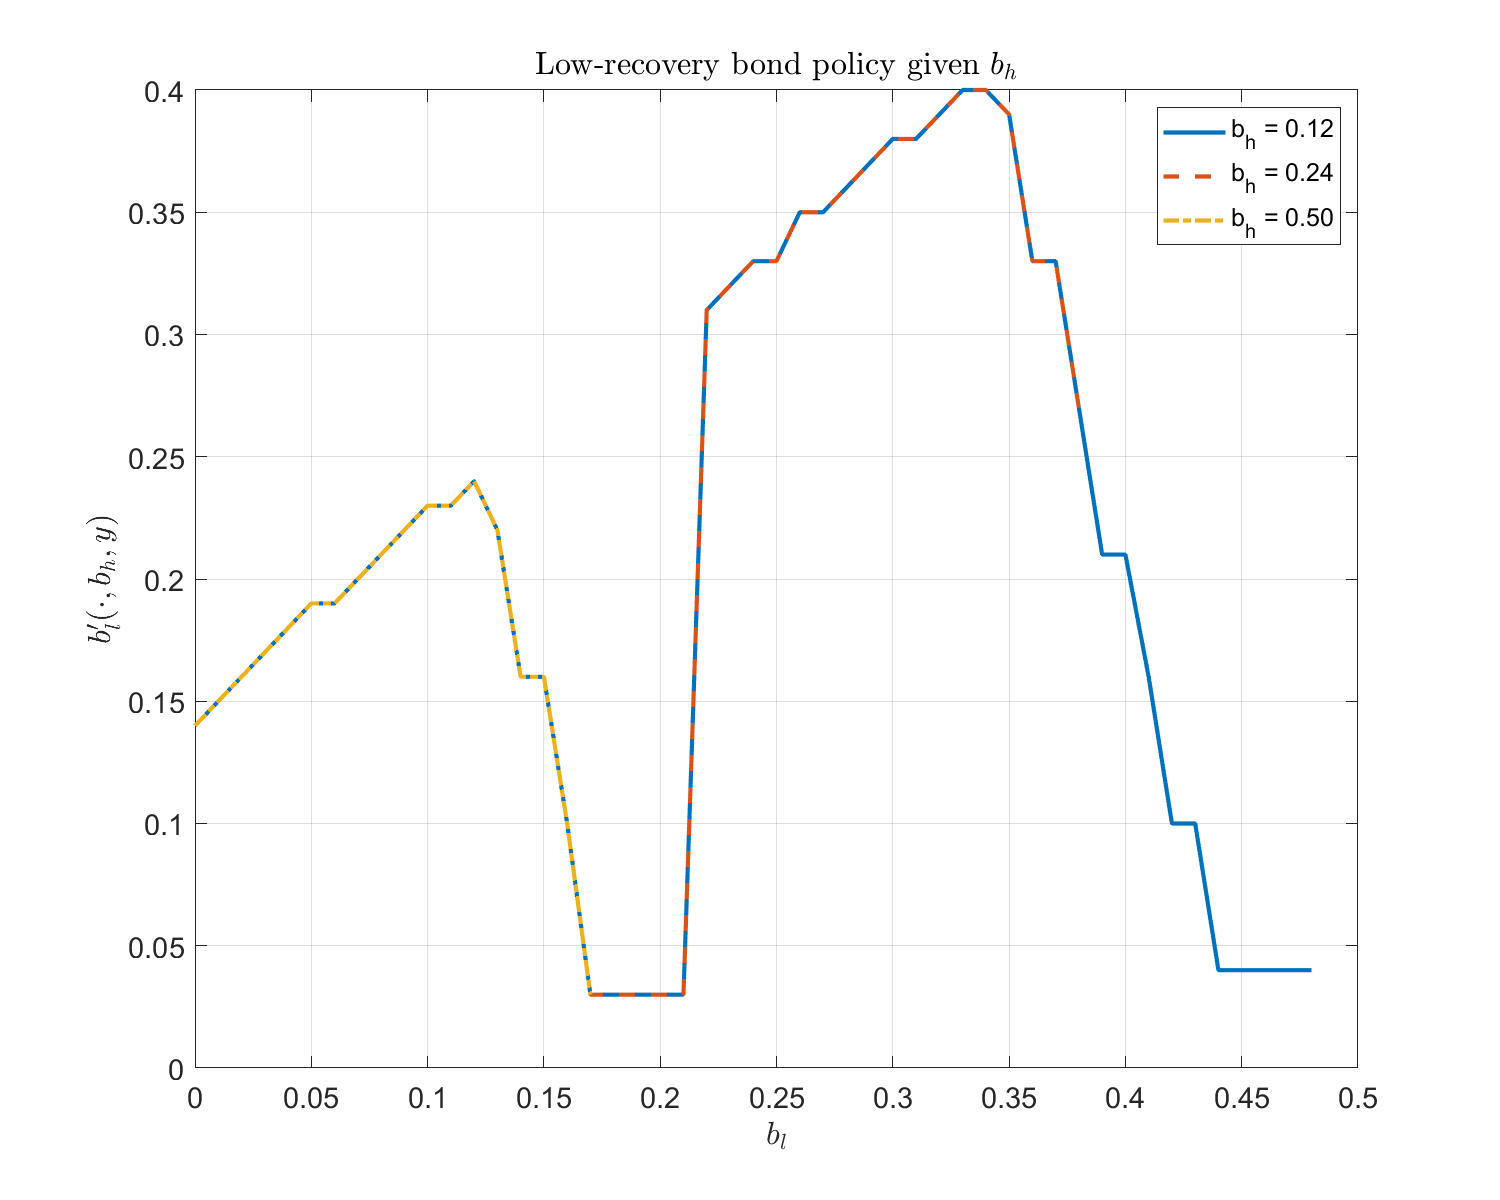
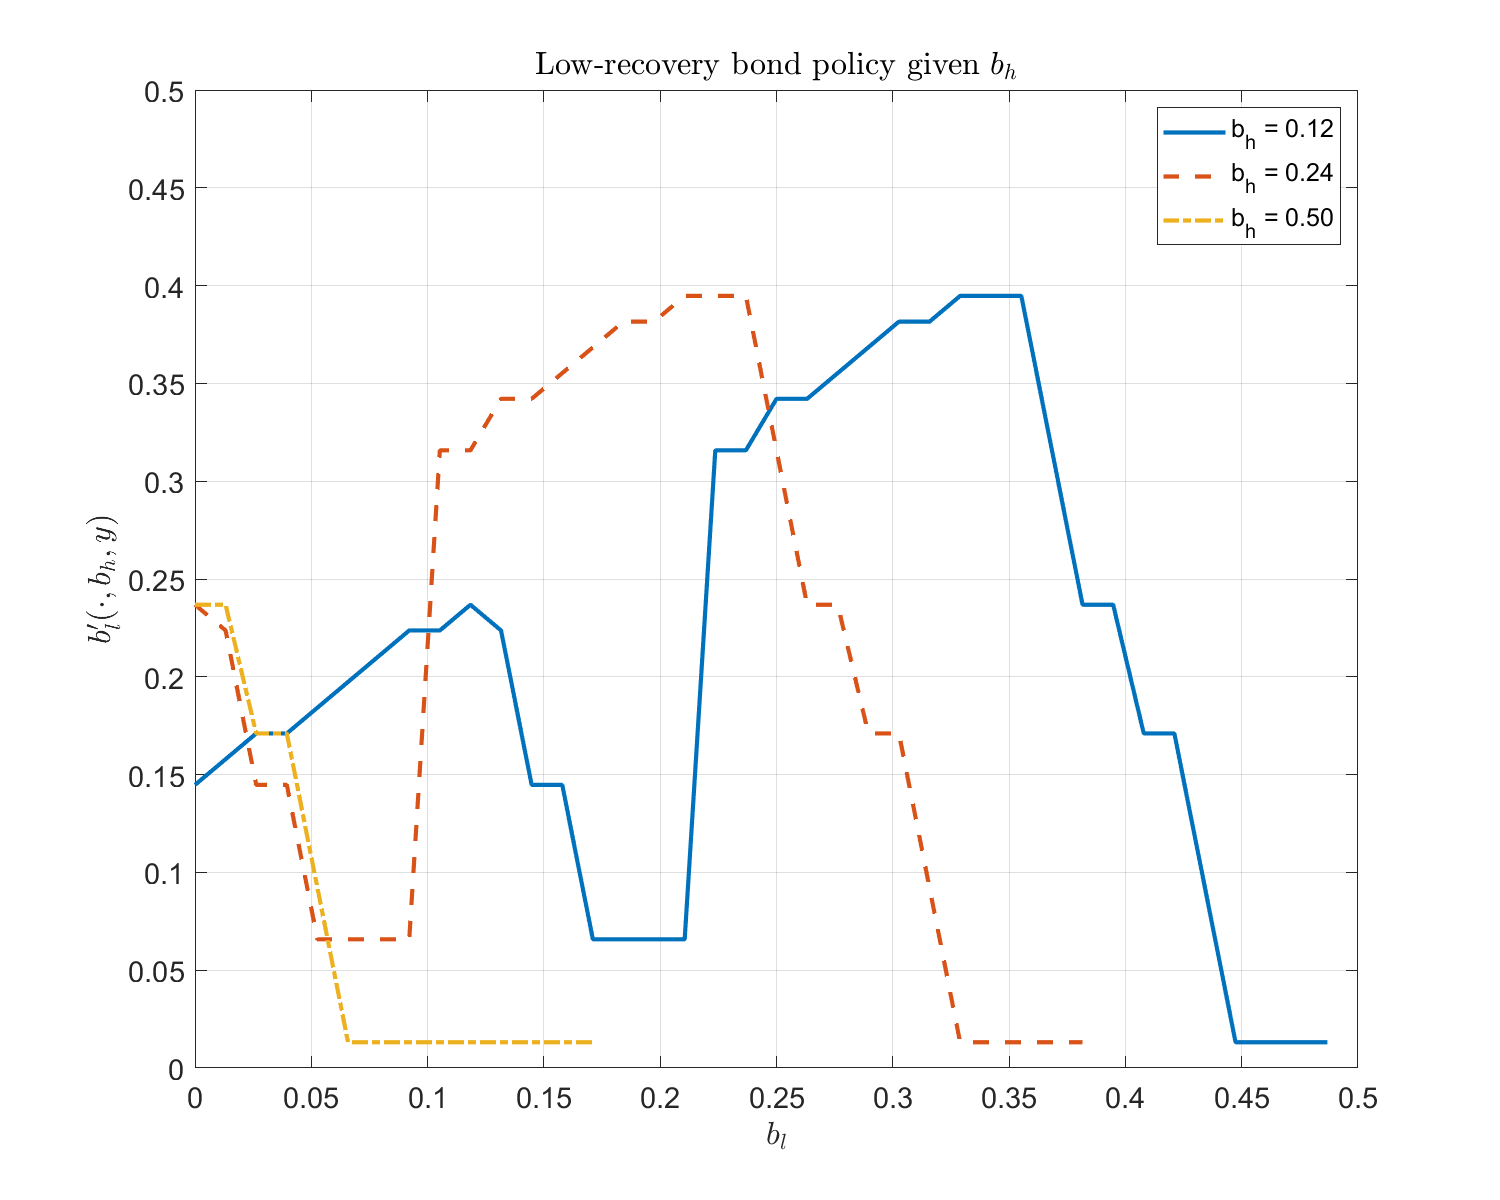
Fixing bugs in plots.

diff --git a/Load_and_Analyse.m b/Load_and_Analyse.m
@@ -1,4 +1,7 @@
-%% This file generates the plots after solving the model.
+%% This file generates the plots after solving the model:
+% First we need to solve the model and store the results in the
+% calibrated_model_solution struct. Then we reshape and store everything in
+% Solution struct. Plots are then stored in the Figures folder.
 
 %% Format variables:
 
@@ -14,18 +17,6 @@ Solution.B_grid_lowr = calibrated_model_solution.B_grid_lowr;
 Solution.B_grid_highr = calibrated_model_solution.B_grid_highr;
 Solution.P = reshape(calibrated_model_solution.P, params.y_grid_size, params.y_grid_size)';
 
-% Bond policies:
-Bond_policy_highr = calibrated_model_solution.B_grid_highr(calibrated_model_solution.B_policy_highr + 1);
-Bond_policy = calibrated_model_solution.B_grid_highr(calibrated_model_solution.B_policy_highr + 1) + calibrated_model_solution.B_grid_lowr(calibrated_model_solution.B_policy_lowr + 1);
-Bond_policy_highr(calibrated_model_solution.D_policy == 1) = 0;
-Bond_policy(calibrated_model_solution.D_policy == 1) = 0;
-Bond_policy = permute(reshape(Bond_policy, params.b_grid_size_lowr, params.b_grid_size_highr, params.y_grid_size), [2, 1, 3]);
-Bond_policy_highr = permute(reshape(Bond_policy_highr, params.b_grid_size_lowr, params.b_grid_size_highr, params.y_grid_size), [2, 1, 3]);
-
-% Included NaNs:
-calibrated_model_solution.B_policy_lowr(calibrated_model_solution.D_policy == 1) = NaN;
-calibrated_model_solution.B_policy_highr(calibrated_model_solution.D_policy == 1) = NaN;
-
 % Reshape endogenous objects:
 Solution.Q_lowr = permute(reshape(calibrated_model_solution.Q_lowr, params.b_grid_size_lowr, params.b_grid_size_highr, params.y_grid_size), [2, 1, 3]);
 Solution.Q_highr = permute(reshape(calibrated_model_solution.Q_highr, params.b_grid_size_lowr, params.b_grid_size_highr, params.y_grid_size), [2, 1, 3]);
@@ -34,9 +25,6 @@ Solution.V_r = permute(reshape(calibrated_model_solution.V_r, params.b_grid_size
 Solution.V_d = permute(reshape(calibrated_model_solution.V_d, params.b_grid_size_lowr, params.b_grid_size_highr, params.y_grid_size), [2, 1, 3]);
 Solution.D_policy = permute(reshape(calibrated_model_solution.D_policy, params.b_grid_size_lowr, params.b_grid_size_highr, params.y_grid_size), [2, 1, 3]);
 
-% When reshaping policy for debt, not that MATLAB starts indexing at 1.
-Solution.B_policy_lowr = permute(reshape(calibrated_model_solution.B_policy_lowr, params.b_grid_size_lowr, params.b_grid_size_highr, params.y_grid_size), [2, 1, 3]) + 1;
-Solution.B_policy_highr = permute(reshape(calibrated_model_solution.B_policy_highr, params.b_grid_size_lowr, params.b_grid_size_highr, params.y_grid_size), [2, 1, 3]) + 1;
 
 %% Perform checks to see if bounds bind or not:
 
@@ -53,16 +41,14 @@ bh_lowlevel = round(params.b_grid_size_highr/8);
 bh_midlevel = round(params.b_grid_size_highr/4);
 bh_highlevel = round(params.b_grid_size_highr/2);
 
-bl_lowlevel = round(params.b_grid_size_lowr/8);
-bl_midlevel = round(params.b_grid_size_lowr/4);
-bl_highlevel = round(params.b_grid_size_lowr/2);
+bl_lowlevel = bh_lowlevel;
+bl_midlevel = bh_midlevel;
+bl_highlevel = bh_highlevel;
 
 
 %% Plot value functions:
 
-
 %%% Plot value functions for LOW_RECOVERY debt given high recovery debt:
-
 % Set font size
 fontSize = 14;
 % Set figure size
@@ -217,7 +203,21 @@ saveas(gcf, fullfile('Figures', 'prices_highrecovery_plot.png.png'));
 
 %% Plot policy functions:
 
-%%% Plot policies for LOW_RECOVERY debt given high recovery debt:
+
+% Bond policies:
+Solution.Bond_policy_highr = calibrated_model_solution.B_grid_highr(calibrated_model_solution.B_policy_highr + 1);
+Solution.Bond_policy_lowr = calibrated_model_solution.B_grid_lowr(calibrated_model_solution.B_policy_lowr + 1);
+Solution.Bond_policy = calibrated_model_solution.B_grid_highr(calibrated_model_solution.B_policy_highr + 1) + calibrated_model_solution.B_grid_lowr(calibrated_model_solution.B_policy_lowr + 1);
+
+Solution.Bond_policy_highr(calibrated_model_solution.D_policy == 1) = -1;
+Solution.Bond_policy_lowr(calibrated_model_solution.D_policy == 1) = -1;
+Solution.Bond_policy(calibrated_model_solution.D_policy == 1) = -1;
+
+Solution.Bond_policy = permute(reshape(Solution.Bond_policy, params.b_grid_size_lowr, params.b_grid_size_highr, params.y_grid_size), [2, 1, 3]);
+Solution.Bond_policy_highr = permute(reshape(Solution.Bond_policy_highr, params.b_grid_size_lowr, params.b_grid_size_highr, params.y_grid_size), [2, 1, 3]);
+Solution.Bond_policy_lowr = permute(reshape(Solution.Bond_policy_lowr, params.b_grid_size_lowr, params.b_grid_size_highr, params.y_grid_size), [2, 1, 3]);
+
+%% Plot policies for LOW_RECOVERY debt given high recovery debt:
 
 % Set font size
 fontSize = 14;
@@ -233,26 +233,19 @@ figure('Units', 'inches', 'Position', [0, 0, figureSize], 'Color', 'w');
 legend_entry_low = sprintf('b_h = %.2f', Solution.B_grid_highr(bh_lowlevel));
 legend_entry_mid = sprintf('b_h = %.2f', Solution.B_grid_highr(bh_midlevel));
 legend_entry_high = sprintf('b_h = %.2f', Solution.B_grid_highr(bh_highlevel));
-
-% Small high-recovery debt level:
-nonNaN_indices = ~isnan(Solution.B_policy_lowr(bh_lowlevel,:, y_index));
-policy = Solution.B_policy_lowr(bh_lowlevel,:, y_index);
-policy = policy(nonNaN_indices);
-plot(Solution.B_grid_lowr(nonNaN_indices), Solution.B_grid_lowr(policy), 'LineWidth', lineWidth, 'LineStyle', '-');
-hold on;
-% Medium high-recovery debt level:
-nonNaN_indices = ~isnan(Solution.B_policy_lowr(bh_midlevel,:, y_index));
-policy = Solution.B_policy_lowr(bh_midlevel,:, y_index);
-policy = policy(nonNaN_indices);
-plot(Solution.B_grid_lowr(nonNaN_indices), Solution.B_grid_lowr(policy), 'LineWidth', lineWidth, 'LineStyle', '--');
-hold on;
-% Big high-recovery debt level:
-nonNaN_indices = ~isnan(Solution.B_policy_lowr(bh_highlevel,:, y_index));
-policy = Solution.B_policy_lowr(bh_highlevel,:, y_index);
-policy = policy(nonNaN_indices);
-plot(Solution.B_grid_lowr(nonNaN_indices), Solution.B_grid_lowr(policy), 'LineWidth', lineWidth, 'LineStyle', '-.');
+% % Small high-recovery debt level:
+y_axis = Solution.Bond_policy_lowr(bh_lowlevel,:, y_index);
+plot(Solution.B_grid_lowr(y_axis>-1), y_axis(y_axis>-1), 'LineWidth', lineWidth, 'LineStyle', '-');
+ hold on;
+% % Medium high-recovery debt level:
+y_axis = Solution.Bond_policy_lowr(bh_midlevel,:, y_index);
+plot(Solution.B_grid_lowr(y_axis>-1), y_axis(y_axis>-1), 'LineWidth', lineWidth, 'LineStyle', '--');
+% hold on;
+% % Big high-recovery debt level:
+y_axis = Solution.Bond_policy_lowr(bh_highlevel,:, y_index);
+plot(Solution.B_grid_lowr(y_axis>-1), y_axis(y_axis>-1), 'LineWidth', lineWidth, 'LineStyle', '-.');
 hold off;
-% Add title and labels with LaTeX formatting
+% % Add title and labels with LaTeX formatting
 title('Low-recovery bond policy given $b_h$', 'Interpreter', 'latex', 'FontSize', fontSize);
 xlabel('$b_l$', 'Interpreter', 'latex', 'FontSize', fontSize);
 ylabel('$b_{l}^{\prime}(\cdot, b_h, y)$', 'Interpreter', 'latex', 'FontSize', fontSize);
@@ -262,10 +255,15 @@ legend(legend_entry_low, legend_entry_mid, legend_entry_high, 'FontSize', legend
 grid on;
 % Increase font size of ticks
 set(gca, 'FontSize', fontSize);
+% Set symmetric ticks up to 0.5 for both x and y axes
+ticks = 0:0.05:0.5;
+xticks(ticks);
+yticks(ticks);
+% Set the same limits for both x and y axes
+xlim([0, 0.5]);
+ylim([0, 0.5]);
 % Create folder if it doesn't exist
 saveas(gcf, fullfile('Figures', 'policies_lowrecovery_plot.png'));
-
-%% Plot policy functions:
 
 %%% Plot policies for HIGH_RECOVERY debt given high recovery debt:
 
@@ -280,30 +278,23 @@ legendFontSize = 12;
 % Create figure
 figure('Units', 'inches', 'Position', [0, 0, figureSize], 'Color', 'w');
 % Create legend entry with LaTeX formatting
-legend_entry_low = sprintf('b_l = %.2f', Solution.B_grid_lowr(bl_lowlevel));
-legend_entry_mid = sprintf('b_l = %.2f', Solution.B_grid_lowr(bl_midlevel));
-legend_entry_high = sprintf('b_l = %.2f', Solution.B_grid_lowr(bl_highlevel));
-
-% Small high-recovery debt level:
-nonNaN_indices = ~isnan(Solution.B_policy_highr(:,bl_lowlevel, y_index));
-policy = Solution.B_policy_highr(:,bl_lowlevel, y_index);
-policy = policy(nonNaN_indices);
-plot(Solution.B_grid_highr(nonNaN_indices), Solution.B_grid_highr(policy), 'LineWidth', lineWidth, 'LineStyle', '-');
+legend_entry_low = sprintf('b_h = %.2f', Solution.B_grid_lowr(bl_lowlevel));
+legend_entry_mid = sprintf('b_h = %.2f', Solution.B_grid_lowr(bl_midlevel));
+legend_entry_high = sprintf('b_h = %.2f', Solution.B_grid_lowr(bl_highlevel));
+% % Small high-recovery debt level:
+y_axis = Solution.Bond_policy_highr(:,bl_lowlevel, y_index);
+plot(Solution.B_grid_highr(y_axis>-1), y_axis(y_axis>-1), 'LineWidth', lineWidth, 'LineStyle', '-');
 hold on;
-% Medium high-recovery debt level:
-nonNaN_indices = ~isnan(Solution.B_policy_highr(:,bl_midlevel, y_index));
-policy = Solution.B_policy_highr(:,bl_midlevel, y_index);
-policy = policy(nonNaN_indices);
-plot(Solution.B_grid_highr(nonNaN_indices), Solution.B_grid_highr(policy), 'LineWidth', lineWidth, 'LineStyle', '--');
-hold on;
-% Big high-recovery debt level:
-nonNaN_indices = ~isnan(Solution.B_policy_highr(:,bl_highlevel, y_index));
-policy = Solution.B_policy_highr(:,bl_highlevel, y_index);
-policy = policy(nonNaN_indices);
-plot(Solution.B_grid_highr(nonNaN_indices), Solution.B_grid_highr(policy), 'LineWidth', lineWidth, 'LineStyle', '-.');
+% % Medium high-recovery debt level:
+y_axis = Solution.Bond_policy_highr(:,bl_midlevel, y_index);
+plot(Solution.B_grid_highr(y_axis>-1), y_axis(y_axis>-1), 'LineWidth', lineWidth, 'LineStyle', '--');
+% hold on;
+% % Big high-recovery debt level:
+y_axis = Solution.Bond_policy_highr(:,bl_highlevel, y_index);
+plot(Solution.B_grid_highr(y_axis>-1), y_axis(y_axis>-1), 'LineWidth', lineWidth, 'LineStyle', '-.');
 hold off;
-% Add title and labels with LaTeX formatting
-title('High-recovery bond policy given $b_h$', 'Interpreter', 'latex', 'FontSize', fontSize);
+% % Add title and labels with LaTeX formatting
+title('High-recovery bond policy given $b_l$', 'Interpreter', 'latex', 'FontSize', fontSize);
 xlabel('$b_h$', 'Interpreter', 'latex', 'FontSize', fontSize);
 ylabel('$b_{h}^{\prime}(b_l, \cdot, y)$', 'Interpreter', 'latex', 'FontSize', fontSize);
 % Display the legend with increased font size
@@ -312,6 +303,13 @@ legend(legend_entry_low, legend_entry_mid, legend_entry_high, 'FontSize', legend
 grid on;
 % Increase font size of ticks
 set(gca, 'FontSize', fontSize);
+% Set symmetric ticks up to 0.5 for both x and y axes
+ticks = 0:0.05:0.5;
+xticks(ticks);
+yticks(ticks);
+% Set the same limits for both x and y axes
+xlim([0, 0.5]);
+ylim([0, 0.5]);
 % Create folder if it doesn't exist
 saveas(gcf, fullfile('Figures', 'policies_highrecovery_plot.png'));
 
@@ -319,12 +317,12 @@ saveas(gcf, fullfile('Figures', 'policies_highrecovery_plot.png'));
 
 
 figure('Units', 'inches', 'Position', [0, 0, figureSize], 'Color', 'w');
-Z = Bond_policy(:,:,y_index);
+Z = Solution.Bond_policy(:,:,y_index);
 x = Solution.B_grid_lowr;
 y = Solution.B_grid_highr;
 [X, Y] = meshgrid(x, y);
 
-mask = Z > 0;
+mask = Z > -1;
 X_selected = X(mask);
 Y_selected = Y(mask);
 Z_selected = Z(mask);
@@ -334,7 +332,7 @@ plot3(X_selected, Y_selected, Z_selected, 'x');
 title('Total bond policy given $(b_h,b_l)$', 'Interpreter', 'latex', 'FontSize', fontSize);
 xlabel('$b_l$', 'Interpreter', 'latex', 'FontSize', fontSize);
 ylabel('$b_h$', 'Interpreter', 'latex', 'FontSize', fontSize);
-zlabel('$b_h^{\prime}+b_l^{\prime}$', 'Interpreter', 'latex', 'FontSize', fontSize);
+zlabel('$(b_h^{\prime}+b_l^{\prime})$', 'Interpreter', 'latex', 'FontSize', fontSize);
 grid on;
 saveas(gcf, fullfile('Figures', 'policies_total_plot.png'));
 

diff --git a/Mex_compilation.m b/Mex_compilation.m
@@ -14,11 +14,11 @@ mex CXXFLAGS="$CXXFLAGS -fopenmp -O3" LDFLAGS="$LDFLAGS -fopenmp" main.cpp econo
 %% Common parameters:
 
 %params.b_grid_size_lowr = 75;          % Number of points in the grid for the low recovery bond. 
-params.b_grid_size_highr = 101;         % Number of points in the grid for the high recovery bond. 
+params.b_grid_size_highr = 76;         % Number of points in the grid for the high recovery bond. 
 params.b_grid_min_lowr = 0.0;           % Minimum value for the low recovery bond grid.
 params.b_grid_min_highr = 0.0;          % Minimum value for the high recovery bond grid.
-params.b_grid_max_lowr = 0.75;           % Maximum value of the low recovery bond grid.
-params.b_grid_max_highr = 1;            % Maximum value of the high recovery bond grid.
+params.b_grid_max_lowr = 1;           % Maximum value of the low recovery bond grid.
+params.b_grid_max_highr = 1.25;            % Maximum value of the high recovery bond grid.
 params.b_grid_size_lowr = (params.b_grid_max_lowr/params.b_grid_max_highr) * (params.b_grid_size_highr-1)+1;
 params.y_grid_size = 11;                 % Number of points in the grid for the income. (Always use Odd)
 params.y_default = 0.969;               % Maximum income under default.
